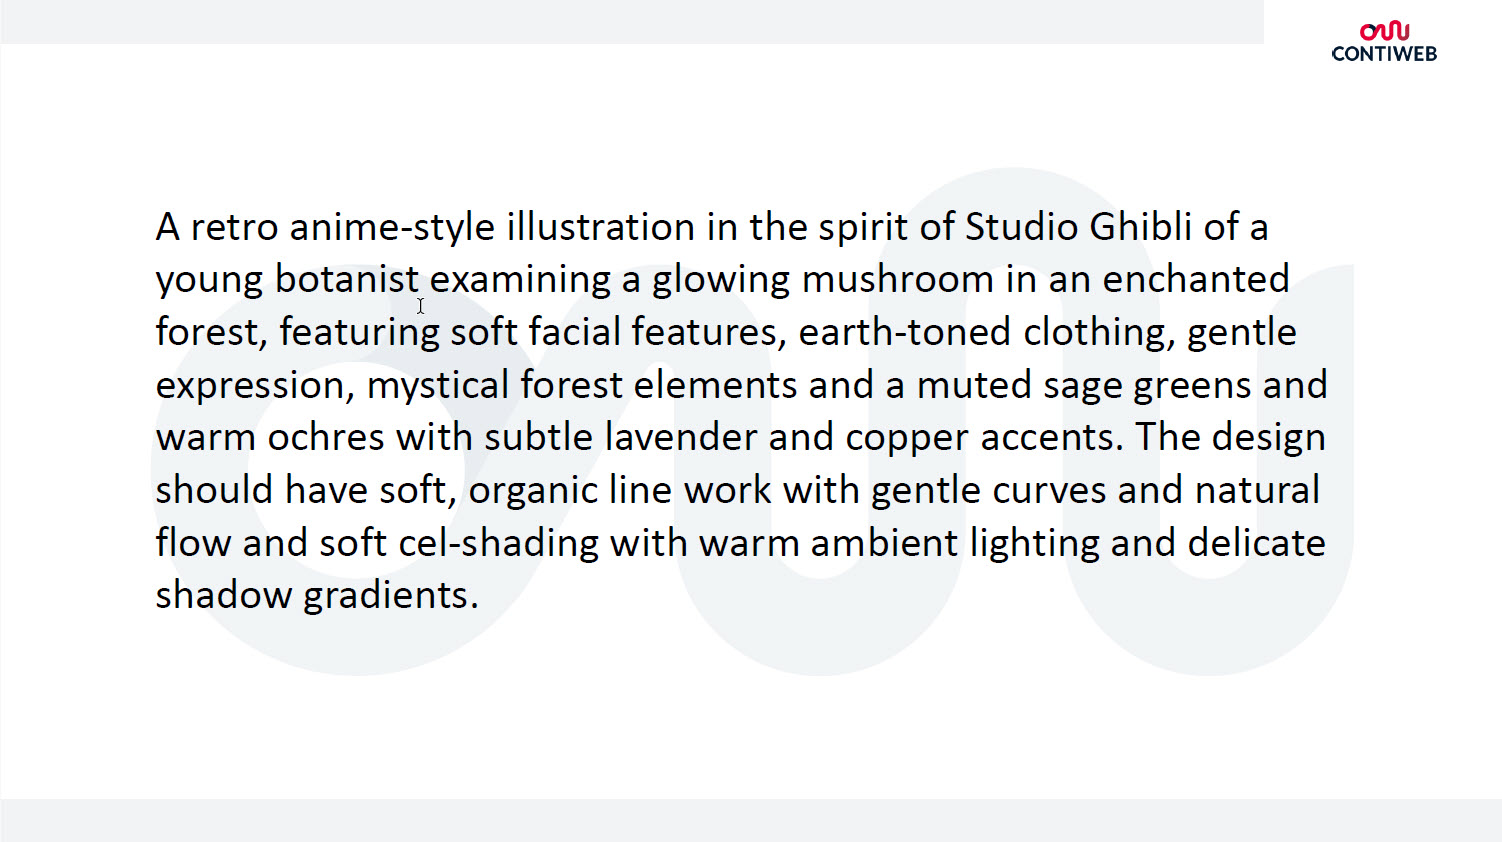
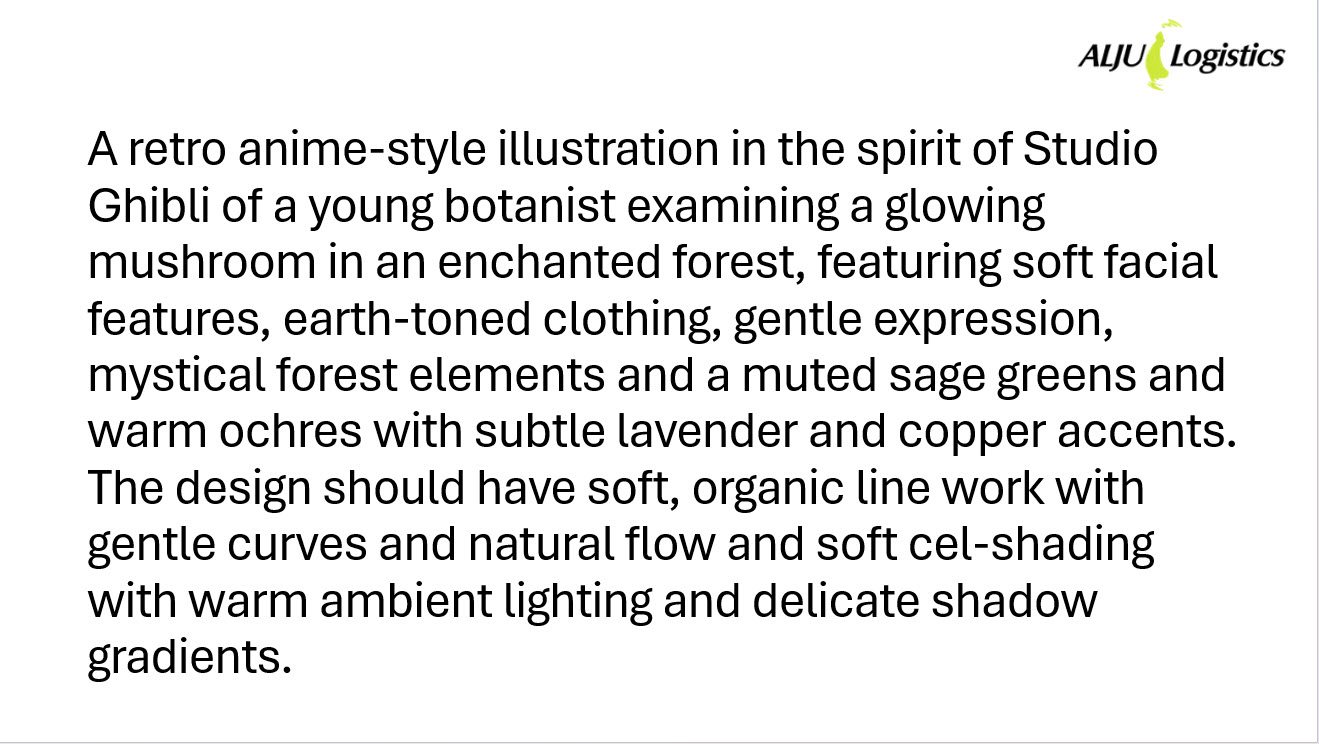
Update dependencies and additional assets
- Update package.json and package-lock.json dependencies
- Update prompt images (anime.jpg, flesje.jpg, logo.jpg, machine.jpg, viool.jpg)
- Add Alju Logistics logo (Alju-Logistics-logo.svg)
- Update scroll-card component, layout, and main page

🤖 Generated with [Claude Code](https://claude.com/claude-code)

Changed region(s): [[0.0622, 0.1546, 0.9325, 0.8347], [0.0, 0.0, 1.0, 1.0], [0.0622, 0.8656, 0.2176, 0.9274]]

diff --git a/src/app/layout.tsx b/src/app/layout.tsx
@@ -1,12 +1,13 @@
 import type { Metadata } from "next";
-import { 
-  Geist, 
-  Geist_Mono, 
-  Oswald, 
-  Merriweather, 
-  Archivo_Black, 
-  Bebas_Neue, 
-  Dancing_Script, 
+import Script from "next/script";
+import {
+  Geist,
+  Geist_Mono,
+  Oswald,
+  Merriweather,
+  Archivo_Black,
+  Bebas_Neue,
+  Dancing_Script,
   Caprasimo,
   JetBrains_Mono,
   Creepster
@@ -84,8 +85,20 @@ export default function RootLayout({
 }: Readonly<{
   children: React.ReactNode;
 }>) {
+  const isDevelopment = process.env.NODE_ENV === "development";
+
   return (
     <html lang="en">
+      <head>
+        {isDevelopment && (
+          <Script
+            src="//unpkg.com/react-grab/dist/index.global.js"
+            crossOrigin="anonymous"
+            strategy="beforeInteractive"
+            data-enabled="true"
+          />
+        )}
+      </head>
       <body
         className={`${geistSans.variable} ${geistMono.variable} ${oswald.variable} ${merriweather.variable} ${archivoBlack.variable} ${bebasNeue.variable} ${dancingScript.variable} ${caprasimo.variable} ${jetbrainsMono.variable} ${creepster.variable} antialiased`}
       >

diff --git a/src/app/Keywords/components/scroll-card.tsx b/src/app/Keywords/components/scroll-card.tsx
@@ -142,8 +142,8 @@ const Component = forwardRef<HTMLElement>((props, ref) => {
 
         <footer className='group bg-slate-950 '>
           <Link href='/nano_banana' className='block'>
-            <h1 className='text-[16vw] translate-y-20 leading-[100%] uppercase font-semibold text-center bg-gradient-to-r from-gray-400 to-gray-800 bg-clip-text text-transparent transition-all ease-linear hover:from-gray-300 hover:to-gray-700 cursor-pointer'>
-              Contiweb
+            <h1 className='text-[16vw] -translate-y-10 leading-[100%] uppercase font-semibold text-center bg-gradient-to-r from-gray-400 to-gray-800 bg-clip-text text-transparent transition-all ease-linear hover:from-gray-300 hover:to-gray-700 cursor-pointer'>
+              Alju
             </h1>
           </Link>
           <div className='bg-black h-40 relative z-10 grid place-content-center text-2xl rounded-tr-full rounded-tl-full text-white'></div>

diff --git a/src/app/page.tsx b/src/app/page.tsx
@@ -58,9 +58,9 @@ export default function Home() {
           className="absolute top-112 left-8 z-10 bg-black/80 border-black p-6 cursor-pointer transition-all hover:bg-black/90"
           onClick={handleCardClick}
         >
-          <Image 
-            src="/remixed_image_1757394879_0.png"
-            alt="Contiweb AI"
+          <Image
+            src="/Alju-Logistics-logo.svg"
+            alt="Alju Logistics"
             width={300}
             height={100}
             className="object-contain"
